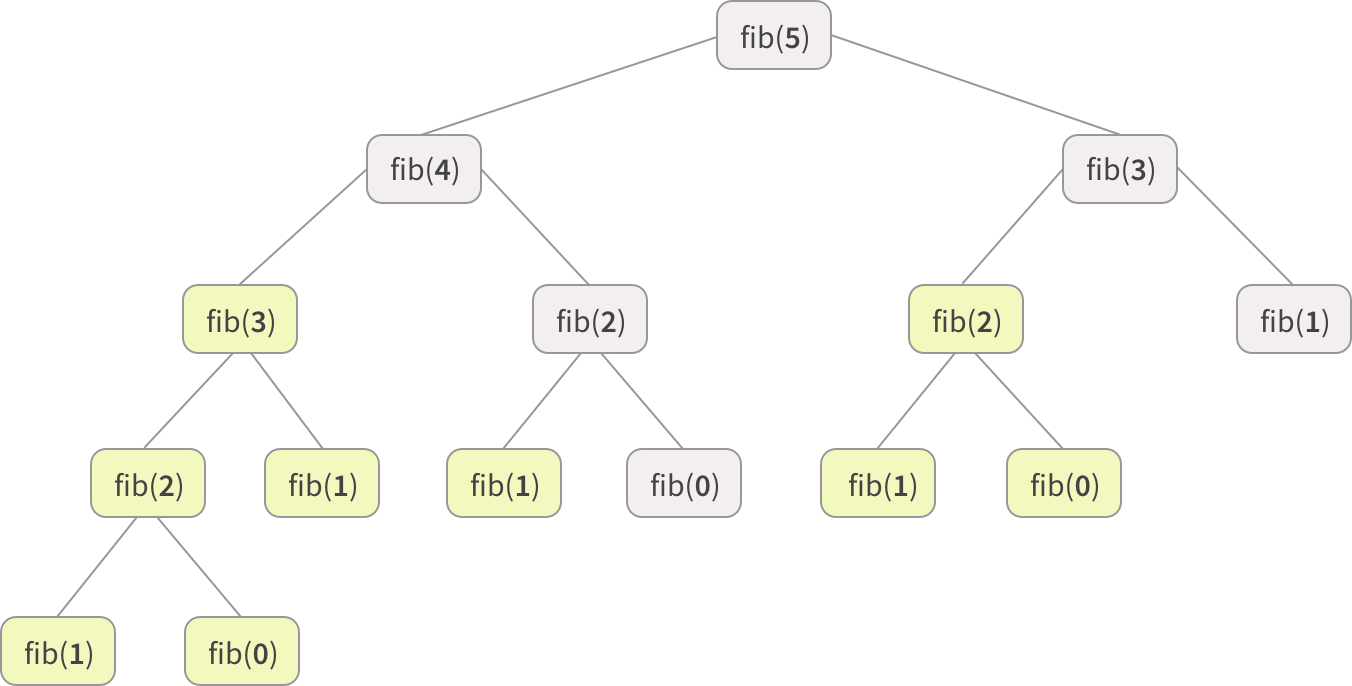
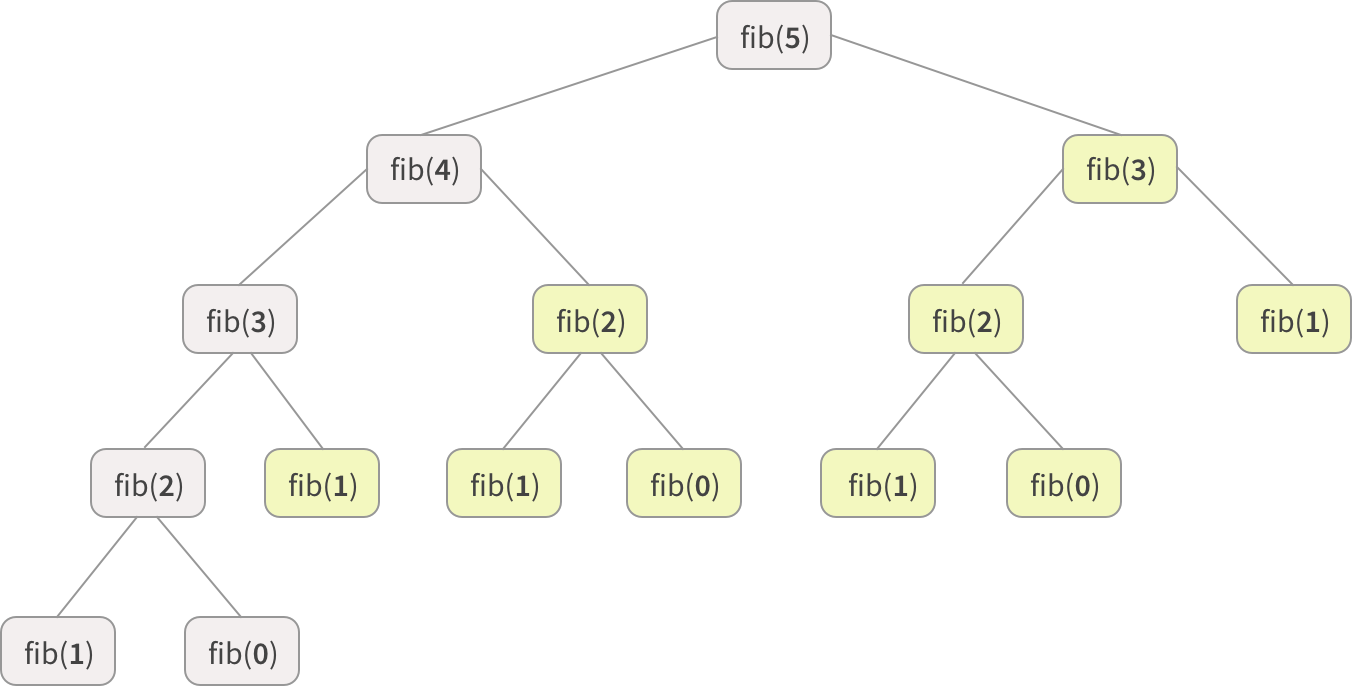
dp docs

diff --git a/assets/dynamic_programming/_docs/index.md b/assets/dynamic_programming/_docs/index.md
@@ -85,6 +85,10 @@ class Fibber {
 
 Now in our recurrence tree, no node appears more than twice:
 
+<p align="center">
+<img src="images/fib_2.png" width="625" />
+</p>
+
 Memoization is a common strategy for dynamic programming problems, however going bottom-up is usually cleaner and more efficient.
 
 ### Bottom-Up
